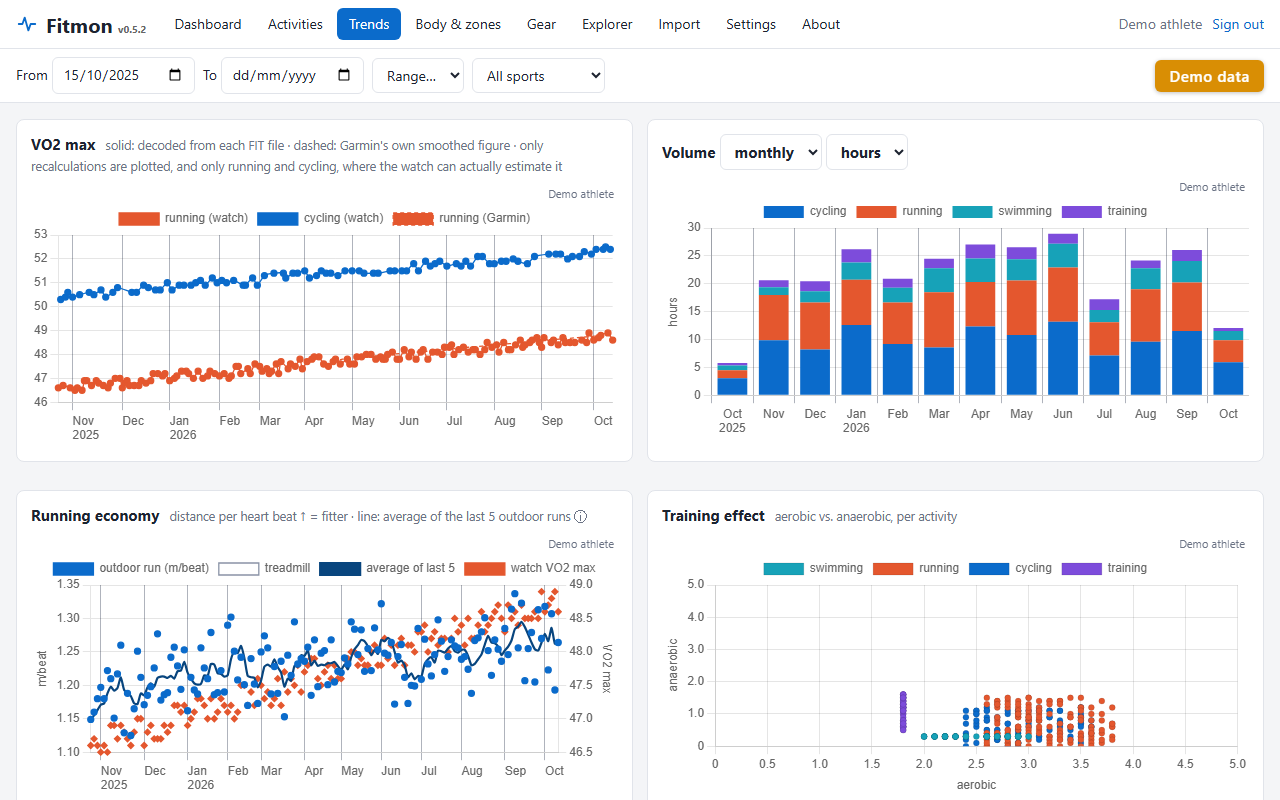
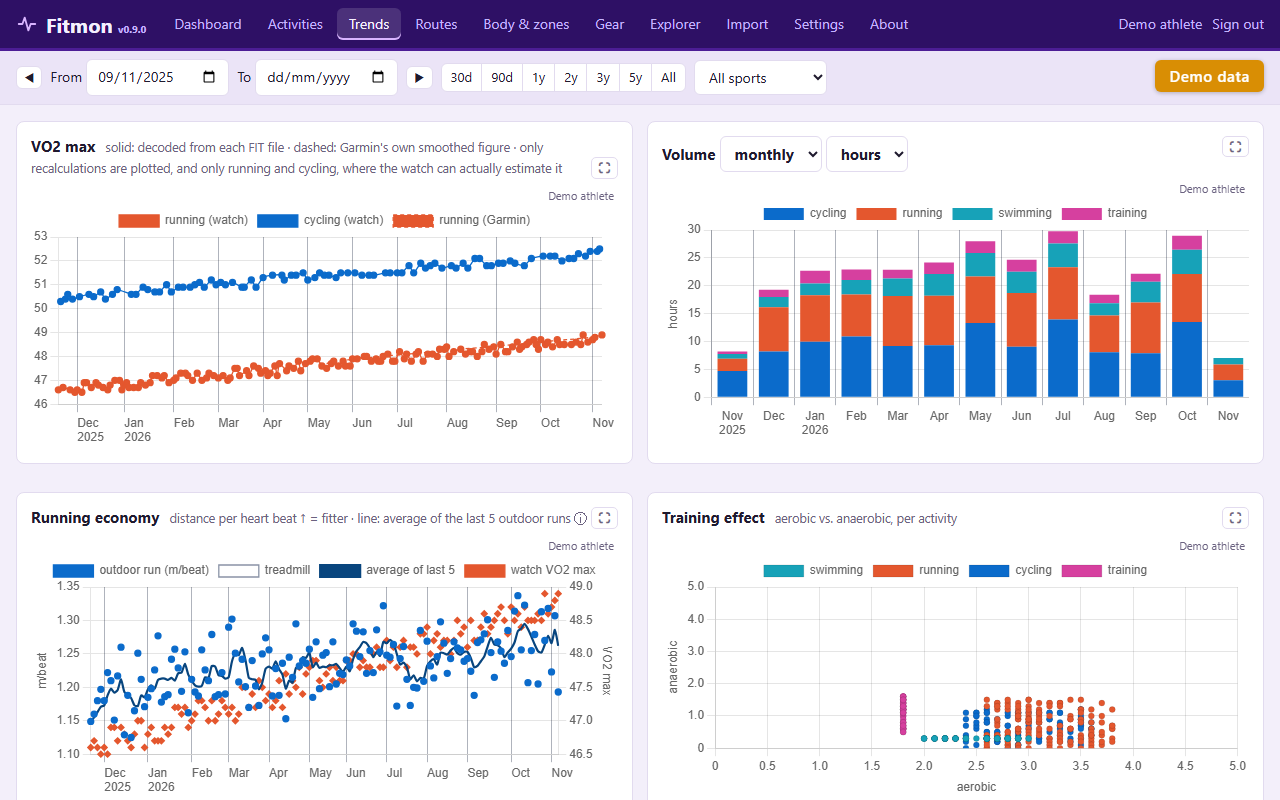
fitmon 0.9.0: two-tone purple theme; strength in pink

diff --git a/app/static/css/style.css b/app/static/css/style.css
@@ -1,26 +1,35 @@
+/* Two-tone purple, after ccfleet's two-tone green (2026-11-09): tone 1 = the deep violet header
+   band (same in both modes), tone 2 = a soft lavender tint for the page, the filter bar and table
+   heads. Chart colours (sports, zones, series) keep their meaning; strength moved from purple to
+   pink so it does not read as theme colour. */
 :root {
-    --bg: #f4f5f7; --panel: #fff; --ink: #1d2330; --muted: #6b7385; --line: #e1e4ea;
-    --accent: #0b6bcb; --accent-ink: #fff; --good: #1a8a4a; --warn: #b7791f; --bad: #c0392b;
-    --run: #e4572e; --bike: #0b6bcb; --swim: #17a2b8; --strength: #7d4cdb; --other: #8a93a6;
+    --bg: #f3effa; --panel: #fff; --ink: #1f1a2e; --muted: #6b6280; --line: #e2dbef;
+    --accent: #6d28d9; --accent-ink: #fff; --tone2: #ebe4f7; --good: #1a8a4a; --warn: #b7791f; --bad: #c0392b;
+    --hdr-bg: #2e1065; --hdr-border: #4c1d95; --hdr-text: #f5f0ff; --hdr-muted: #c4b5fd; --hdr-accent: #d8b4fe;
+    --run: #e4572e; --bike: #0b6bcb; --swim: #17a2b8; --strength: #d6409f; --other: #8a93a6;
 }
 @media (prefers-color-scheme: dark) {
-    :root { --bg: #12151c; --panel: #1b202b; --ink: #e6e9f0; --muted: #98a1b3; --line: #2b3242;
-            --accent: #4da3ff; --accent-ink: #0b1220; }
+    :root { --bg: #110c1b; --panel: #1a1428; --ink: #e9e4f5; --muted: #a197b8; --line: #2d2440;
+            --accent: #a78bfa; --accent-ink: #160f24; --tone2: #221a35; --hdr-border: #5b21b6; }
 }
 * { box-sizing: border-box; }
+:root { accent-color: var(--accent); }      /* checkboxes, radios and ranges in the theme colour */
 body { margin: 0; font: 14px/1.45 system-ui, -apple-system, "Segoe UI", Roboto, sans-serif;
        background: var(--bg); color: var(--ink); }
 a { color: var(--accent); text-decoration: none; cursor: pointer; }
 a:hover { text-decoration: underline; }
 
-header.top { display: flex; align-items: center; gap: 16px; padding: 8px 16px; background: var(--panel);
-             border-bottom: 1px solid var(--line); position: sticky; top: 0; z-index: 1000; flex-wrap: wrap; }
+header.top { display: flex; align-items: center; gap: 16px; padding: 8px 16px; background: var(--hdr-bg); color: var(--hdr-text);
+             border-bottom: 3px solid var(--hdr-border); position: sticky; top: 0; z-index: 1000; flex-wrap: wrap; }
 header.top h1 { margin: 0; font-size: 20px; display: flex; align-items: center; gap: 8px; }
-header.top h1 .icon { width: 22px; height: 22px; color: var(--accent); }
+header.top h1 .icon { width: 22px; height: 22px; color: var(--hdr-accent); }
 nav.tabs { display: flex; gap: 2px; flex-wrap: wrap; flex: 1; }
-nav.tabs a { padding: 6px 12px; border-radius: 6px; color: var(--ink); }
-nav.tabs a.active { background: var(--accent); color: var(--accent-ink); text-decoration: none; }
-.who { color: var(--muted); display: flex; gap: 10px; align-items: center; }
+nav.tabs a { padding: 6px 12px; border-radius: 6px; color: var(--hdr-muted); }
+nav.tabs a:hover { color: var(--hdr-text); background: rgba(255, 255, 255, .08); text-decoration: none; }
+nav.tabs a.active { color: var(--hdr-text); background: rgba(255, 255, 255, .14); box-shadow: inset 0 -2px 0 var(--hdr-accent);
+                    text-decoration: none; }
+.who, .who a { color: var(--hdr-muted); display: flex; gap: 10px; align-items: center; }
+.who a:hover { color: var(--hdr-text); }
 .hdr-sync { margin-left: auto; padding: 4px 12px; }
 .about-shot summary { cursor: pointer; font-weight: 600; margin-top: 8px; }
 .about-shots { display: grid; grid-template-columns: repeat(auto-fill, minmax(260px, 1fr)); gap: 12px; margin-top: 6px; }
@@ -31,7 +40,7 @@ nav.tabs a.active { background: var(--accent); color: var(--accent-ink); text-de
 .hdr-sync + .who { margin-left: 0; }
 
 .filters { display: flex; gap: 8px; align-items: center; flex-wrap: wrap; padding: 8px 16px;
-           border-bottom: 1px solid var(--line); background: var(--panel); }
+           border-bottom: 1px solid var(--line); background: var(--tone2); }
 main { padding: 16px; max-width: 1400px; margin: 0 auto; }
 .view { display: none; } .view.active { display: block; }
 
@@ -54,7 +63,7 @@ button.mini { padding: 2px 7px; font-size: 12px; line-height: 1.4; }
 .seg { display: inline-flex; }
 .seg button { padding: 4px 9px; font-size: 13px; border-radius: 0; margin-left: -1px; }
 .seg button:first-child { border-radius: 6px 0 0 6px; margin-left: 0; } .seg button:last-child { border-radius: 0 6px 6px 0; }
-.seg button.on { background: #0b6bcb; border-color: #0b6bcb; color: #fff; position: relative; }
+.seg button.on { background: var(--accent); border-color: var(--accent); color: var(--accent-ink); position: relative; }
 .panel h2 button.mini { margin-left: 4px; vertical-align: 1px; }
 /* Full screen for any chart's panel: the button sits at the right of its heading. */
 .fs-btn { float: right; padding: 0 6px; font-size: 15px; line-height: 1.3; background: none; border: 1px solid var(--line);
@@ -101,7 +110,7 @@ body.dragging-panel, body.dragging-panel * { cursor: grabbing !important; user-s
 
 table { border-collapse: collapse; width: 100%; }
 th, td { padding: 6px 8px; text-align: left; border-bottom: 1px solid var(--line); white-space: nowrap; }
-th { color: var(--muted); font-weight: 600; font-size: 12px; position: sticky; top: 0; background: var(--panel); }
+th { color: var(--muted); font-weight: 600; font-size: 12px; position: sticky; top: 0; background: var(--tone2); }
 th.sortable { cursor: pointer; } td.num, th.num { text-align: right; font-variant-numeric: tabular-nums; }
 tbody tr.click { cursor: pointer; } tbody tr.click:hover { background: color-mix(in srgb, var(--accent) 8%, transparent); }
 .scroll { overflow: auto; max-height: 70vh; }

diff --git a/app/static/js/app.js b/app/static/js/app.js
@@ -5,8 +5,9 @@ const $ = (id) => document.getElementById(id);
 const state = {csrf: window.FITMON.csrf, user: window.FITMON.user, settings: null, view: null,
                session: null, charts: {}, map: null, act: {offset: 0, sort: 'start_time', dir: 'desc'},
                exp: {file: null, message: null, page: 1}, poll: null};
-const SPORT_COLORS = {running: '#e4572e', cycling: '#0b6bcb', swimming: '#17a2b8', training: '#7d4cdb',
-                      walking: '#d98e04', hiking: '#6a994e', fitness_equipment: '#7d4cdb', transition: '#8a93a6'};
+// Strength is pink, not purple: purple is the app's theme colour (matches --strength in style.css).
+const SPORT_COLORS = {running: '#e4572e', cycling: '#0b6bcb', swimming: '#17a2b8', training: '#d6409f',
+                      walking: '#d98e04', hiking: '#6a994e', fitness_equipment: '#d6409f', transition: '#8a93a6'};
 const color = (sport, i = 0) => SPORT_COLORS[sport] || ['#8a93a6', '#c05299', '#2a9d8f', '#e9c46a'][i % 4];
 
 // ---------------------------------------------------------------- plumbing
@@ -365,7 +366,7 @@ async function drawCalendar(step = 0) {
     for (let t = first; t.getUTCFullYear() === year; t = new Date(t.getTime() + 86400000)) {
         const key = t.toISOString().slice(0, 10), c = byDay[key];
         const a = c ? 0.2 + 0.8 * Math.min(1, (c.load || 0) / top) : 0;
-        cells += `<i title="${key}${c ? ` · ${c.hours} h · load ${c.load}` : ''}" style="${c ? `background:rgba(11,107,203,${a})` : ''}"></i>`;
+        cells += `<i title="${key}${c ? ` · ${c.hours} h · load ${c.load}` : ''}" style="${c ? `background:color-mix(in srgb, var(--accent) ${Math.round(a * 100)}%, transparent)` : ''}"></i>`;
     }
     $('dash-calendar').innerHTML = cells; $('dash-cal-year').textContent = `${year} · ${cal.days.length} days`;
     $('dash-cal-next').disabled = year >= now;

diff --git a/app/templates/app.html b/app/templates/app.html
@@ -12,7 +12,7 @@
 <header class="top">
     <h1>
         <svg class="icon"><use href="#icon-pulse"/></svg>
-        <span>Fitmon <small style="font-size: 0.5em; color: #666;">v{{ version }}</small></span>
+        <span>Fitmon <small style="font-size: 0.5em; color: var(--hdr-muted);">v{{ version }}</small></span>
     </h1>
     <nav class="tabs" id="tabs">
         <a data-view="dashboard">Dashboard</a>

diff --git a/tools/screenshot.py b/tools/screenshot.py
@@ -188,7 +188,7 @@ DEMO_BADGE = """() => { const b = document.createElement('div'); b.textContent =
 
 # The invented year has session summaries but no second-by-second samples, so these Trends
 # panels would show as empty. A capture leaves them out; for a real user they hold data.
-TRENDS_NEEDS_SAMPLES = ['tr-power-chart', 'tr-best-table', 'tr-eff-chart', 'tr-strength-chart']
+TRENDS_NEEDS_SAMPLES = ['tr-power-chart', 'tr-best-table', 'tr-eff-chart', 'tr-strength-chart', 'tr-cost-chart']
 
 
 def capture_still(browser, base: str, password: str, view: str, out: Path, hide: list | None = None) -> None:

diff --git a/app/__init__.py b/app/__init__.py
@@ -7,7 +7,7 @@ from werkzeug.middleware.proxy_fix import ProxyFix
 
 from flask.json.provider import DefaultJSONProvider
 
-__version__ = '0.8.5'
+__version__ = '0.9.0'
 
 
 class _IsoJSONProvider(DefaultJSONProvider):

diff --git a/specs/fitmon-app.md b/specs/fitmon-app.md
@@ -492,7 +492,7 @@ gets an account until A.1–A.5 and the Tailscale HTTPS front (5.3) are done.
 
 ---
 
-### 8.2 Build log - 2026-09-22 to 2026-10-31 (v0.4.4 - v0.8.5)
+### 8.2 Build log - 2026-09-22 to 2026-11-09 (v0.4.4 - v0.9.0)
 
 Versions before 0.4.4 are in `git log`. From there, all deployed to munchlax:
 
@@ -530,6 +530,7 @@ Versions before 0.4.4 are in `git log`. From there, all deployed to munchlax:
 | 0.8.3 | The range presets are a row of buttons (30d · 90d · 1y · 2y · 3y · 5y · All) instead of a dropdown; the one the dates amount to is highlighted, none after ◀ ▶ or typed dates |
 | 0.8.4 | Fix: a chart left in full screen when the page changed (a click on one of its points opens the activity) left a grey layer over everything. Changing page now closes full screen, and the dimming is the panel's own shadow, so it cannot outlive it |
 | 0.8.5 | Fix: on bar charts over several years the year lines sat in July (an offset gridline goes halfway to the previous tick left standing, and only Januaries were left), so the last months read as the next year. Bar charts now keep every tick, unlabelled and with an invisible line between marks |
+| 0.9.0 | Two-tone purple theme after ccfleet's two-tone green: deep violet header band (#2e1065, same in light and dark), lavender page, filter bar and table heads, violet accent (#6d28d9 / #a78bfa dark); form controls take the accent. Strength moved from purple to pink (#d6409f) so it does not read as theme colour; the training-days calendar shades in the accent. Landing pictures retaken (the playback animation unchanged; Cost per watt hidden there, the demo has no samples) |
 
 Data corrections made on munchlax 2026-10-15: the 70.3 run leg trimmed at the official split
 3:10:01; a 2022 gravel ride saved as a run changed to cycling (it held the 400 m / 1 km / mile
